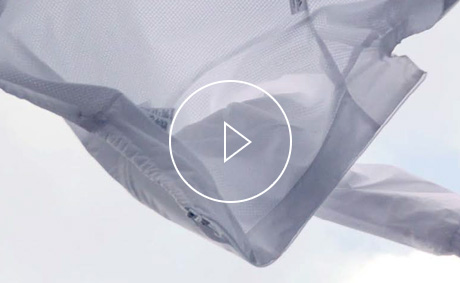
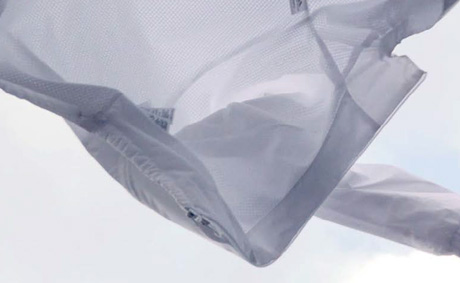
adidas_CP_WND_jacket

diff --git a/mobile/html/adidas/2019/event/athletics/wnd/build/index.html b/mobile/html/adidas/2019/event/athletics/wnd/build/index.html
@@ -438,7 +438,7 @@
        </div>
 
        <div id="container">
-<style type="text/css">@media screen and (max-width: 320px){html{font-size:10px}}@media screen and (min-width: 800px){html{font-size:12px}}.pseudo-element{content:'';display:block}#wnd{position:relative}#wnd .main{position:relative;background:url("/images/adidas/2019/event/athletics/wnd/visual_bg.jpg") 100% 100% no-repeat;background-size:cover;background-position:top;padding:3rem 0 1.5rem 0}#wnd .main .img1 img{width:85%}#wnd .main .wrap{margin:5vh 0}#wnd .main .wrap .txt h1{font:10.5vw/40px 'adinenuPro-bold';text-align:center;color:#fff;letter-spacing:2px}#wnd .main .wrap .txt p{font:500 4vw/15px 'NotoSansKR';text-align:center;color:#fff;letter-spacing:1px;margin:2.5vh 0 3vh 0}#wnd .main .wrap .btns{text-align:center}#wnd .main .wrap .btns .btn1 .button_area_v2,#wnd .main .wrap .btns .btn2 .button_area_v2{display:inline-block;margin-bottom:2vh}#wnd .main .wrap .btns .btn1 .button_area_v2 a,#wnd .main .wrap .btns .btn2 .button_area_v2 a{font:700 .9rem/38px 'NotoSansKR';padding:0 4vw;letter-spacing:1px;height:38px}#wnd .main .wrap .btns .btn1 .button_area_v2 a .arrow,#wnd .main .wrap .btns .btn2 .button_area_v2 a .arrow{width:20px}#wnd .main .wrap .btns .btn1 .button_area_v2 a .arrow::after,#wnd .main .wrap .btns .btn2 .button_area_v2 a .arrow::after{width:8px}#wnd .main .wrap .btns .btn1 .button_area_v2 a .arrow::before,#wnd .main .wrap .btns .btn2 .button_area_v2 a .arrow::before{width:8px}#wnd .main .img2{text-align:right}#wnd .main .img2 img{width:85%}#wnd .midtxt{position:relative;padding:3.5rem 0}#wnd .midtxt p{text-align:center;font:400 4vw/13vw 'NotoSansKR';color:#000;letter-spacing:0.1px}#wnd .midtxt .wrap{text-align:center}#wnd .midtxt .wrap .btn{border:1px solid #000;text-align:center;display:inline-block}#wnd .midtxt .wrap .btn a{font:700 .9rem/38px 'NotoSansKR';color:#000;display:block;padding:0 2vw;height:38px;letter-spacing:.2px}#wnd .midtxt .wrap .btn a img{margin-left:5vw;vertical-align:middle;width:20%}#wnd .vids{position:relative}#wnd .vids .banner_slider_wrap{position:relative;background:#fff}#wnd .vids .banner_slider_wrap.on{background:#000;transition:all 1s}#wnd .vids .banner_slider_wrap .blk_lines{position:absolute;top:-166.5px;left:50%;transform:translateX(-43%);transition:all 1s}#wnd .vids .banner_slider_wrap .blk_lines.on{top:0;z-index:0}#wnd .vids .banner_slider_wrap .blk_lines img{width:115%}#wnd .vids .banner_slider_wrap .wht_lines{position:absolute;bottom:-166.5px;left:50%;transform:translateX(-33%);z-index:0}#wnd .vids .banner_slider_wrap .wht_lines.on{bottom:80px;transition:all 1s}#wnd .vids .banner_slider_wrap .wht_lines img{width:110%}#wnd .vids .banner_slider_wrap #slider_owl li .blk{padding:5.5rem 0 2rem}#wnd .vids .banner_slider_wrap #slider_owl li .blk .top{position:relative}#wnd .vids .banner_slider_wrap #slider_owl li .blk .top img{width:100%}#wnd .vids .banner_slider_wrap #slider_owl li .blk .mid{text-align:center;padding:2rem;padding-left:2.5rem;padding-right:10rem}#wnd .vids .banner_slider_wrap #slider_owl li .blk .mid img{width:100%}#wnd .vids .banner_slider_wrap #slider_owl li .blk .vid{text-align:center;padding-bottom:2rem;padding-right:2.5rem;padding-left:11rem}#wnd .vids .banner_slider_wrap #slider_owl li .blk .vid img{width:100%}#wnd .vids .banner_slider_wrap #slider_owl li .blk .vid .vid_wrap{position:relative}#wnd .vids .banner_slider_wrap #slider_owl li .blk .vid .vid_wrap video{width:100%}#wnd .vids .banner_slider_wrap #slider_owl li .blk .vid .vid_wrap .img{position:absolute;top:50%;left:50%;margin-top:-32.5px;margin-left:-60.5px}#wnd .vids .banner_slider_wrap #slider_owl li .blk .vid .vid_wrap .img img{width:50%}#wnd .vids .banner_slider_wrap #slider_owl li .wht .top{position:relative}#wnd .vids .banner_slider_wrap #slider_owl li .wht .top img{width:100%}#wnd .vids .banner_slider_wrap #slider_owl li .wht .mid{position:relative;text-align:center;padding:2rem;padding-right:2.5rem;padding-left:5rem}#wnd .vids .banner_slider_wrap #slider_owl li .wht .mid img{width:100%}#wnd .vids .banner_slider_wrap #slider_owl li .wht .vid{text-align:center;padding-bottom:2rem;padding-left:2rem;padding-right:11rem}#wnd .vids .banner_slider_wrap #slider_owl li .wht .vid .vid_wrap{position:relative}#wnd .vids .banner_slider_wrap #slider_owl li .wht .vid .vid_wrap video{width:100%}#wnd .vids .banner_slider_wrap #slider_owl li .wht .vid .vid_wrap .img{position:absolute;top:50%;left:50%;margin-top:-32.5px;margin-left:-60.5px}#wnd .vids .banner_slider_wrap #slider_owl li .wht .vid .vid_wrap .img img{width:50%}#wnd .grid{position:relative}#wnd .grid .cut1 img{width:100%}#wnd .grid .cut2{position:relative}#wnd .grid .cut2::after{display:block;content:'';clear:both}#wnd .grid .cut2 .wrap{float:left;width:50%}#wnd .grid .cut2 .wrap img{width:100%}#wnd .grid .cut3{position:relative}#wnd .grid .cut3 img{width:100%}#wnd .grid .cut3 .txt{position:absolute;top:50%;left:50%;transform:translate(-50%, -40%)}#wnd .grid .cut3 .txt h1{font:7.5vw/7.5vw 'adinenuPro-bold';text-align:center;color:#fff}#wnd .grid .cut3 .txt p{font:3.5vw/3.5vw 'adinenuPro-regular';text-align:center;color:#fff;margin:15px 0}#wnd .grid .cut3 .txt .btn{text-align:center}#wnd .grid .cut3 .txt .btn .button_area_v2{display:inline-block}#wnd .grid .cut3 .txt .btn .button_area_v2 a{font:700 .9rem/38px 'NotoSansKR';padding:0 4vw;letter-spacing:.2px;height:38px}#wnd .grid .cut3 .txt .btn .button_area_v2 a .arrow{width:20px}#wnd .grid .cut3 .txt .btn .button_area_v2 a .arrow::after{width:8px}#wnd .grid .cut3 .txt .btn .button_area_v2 a .arrow::before{width:8px}#wnd .btm{position:relative;padding:1.5rem 2.1rem}#wnd .btm .txt{position:absolute;top:50%;left:50%;transform:translate(-50%, -50%)}#wnd .btm .txt h1{font:6vw/7.6vw 'adinenuPro-bold';color:#fff;letter-spacing:3px}#wnd .btm .txt .button_area_v2{display:inline-block}#wnd .btm .txt .button_area_v2 a{font:700 .9rem/38px 'NotoSansKR';padding:0 4vw;letter-spacing:1px;height:38px;width:90px}#wnd .btm .txt .button_area_v2 a .arrow{width:20px}#wnd .btm .txt .button_area_v2 a .arrow::after{width:8px}#wnd .btm .txt .button_area_v2 a .arrow::before{width:8px}#wnd .btm .men{position:relative}#wnd .btm .men::after{display:block;content:'';clear:both}#wnd .btm .men .wrap{float:left;width:50%;text-align:center}#wnd .btm .men .wrap img{width:100%;vertical-align:middle}#wnd .btm .men .color{float:left;width:50%;height:100%;position:relative;background:#c8d0d0}#wnd .btm .men .color img{width:100%}#wnd .btm .women{position:relative;margin:20px 0}#wnd .btm .women::after{display:block;content:'';clear:both}#wnd .btm .women .wrap{float:left;width:50%;text-align:center}#wnd .btm .women .wrap img{width:100%}#wnd .btm .women .color{float:left;width:50%;position:relative}#wnd .btm .women .color img{width:100%}#wnd .btm .kids{position:relative}#wnd .btm .kids::after{display:block;content:'';clear:both}#wnd .btm .kids .wrap{float:left;width:50%;text-align:center}#wnd .btm .kids .wrap img{width:100%}#wnd .btm .kids .color{float:left;width:50%;position:relative}#wnd .btm .kids .color img{width:100%}
+<style type="text/css">@media screen and (max-width: 320px){html{font-size:10px}}@media screen and (min-width: 800px){html{font-size:12px}}.pseudo-element{content:'';display:block}#wnd{position:relative}#wnd .main{position:relative;background:url("/images/adidas/2019/event/athletics/wnd/visual_bg.jpg") 100% 100% no-repeat;background-size:cover;background-position:top;padding:3rem 0 1.5rem 0}#wnd .main .img1 img{width:85%}#wnd .main .wrap{margin:5vh 0}#wnd .main .wrap .txt h1{font:10.5vw/40px 'adinenuPro-bold';text-align:center;color:#fff;letter-spacing:2px}#wnd .main .wrap .txt p{font:500 4vw/15px 'NotoSansKR';text-align:center;color:#fff;letter-spacing:1px;margin:2.5vh 0 3vh 0}#wnd .main .wrap .btns{text-align:center}#wnd .main .wrap .btns .btn1 .button_area_v2,#wnd .main .wrap .btns .btn2 .button_area_v2{display:inline-block;margin-bottom:2vh}#wnd .main .wrap .btns .btn1 .button_area_v2 a,#wnd .main .wrap .btns .btn2 .button_area_v2 a{font:700 .9rem/38px 'NotoSansKR';padding:0 4vw;letter-spacing:1px;height:38px}#wnd .main .wrap .btns .btn1 .button_area_v2 a .arrow,#wnd .main .wrap .btns .btn2 .button_area_v2 a .arrow{width:20px}#wnd .main .wrap .btns .btn1 .button_area_v2 a .arrow::after,#wnd .main .wrap .btns .btn2 .button_area_v2 a .arrow::after{width:8px}#wnd .main .wrap .btns .btn1 .button_area_v2 a .arrow::before,#wnd .main .wrap .btns .btn2 .button_area_v2 a .arrow::before{width:8px}#wnd .main .img2{text-align:right}#wnd .main .img2 img{width:85%}#wnd .midtxt{position:relative;padding:3.5rem 0}#wnd .midtxt p{text-align:center;font:400 4vw/13vw 'NotoSansKR';color:#000;letter-spacing:0.1px}#wnd .midtxt .wrap{text-align:center}#wnd .midtxt .wrap .btn{border:1px solid #000;text-align:center;display:inline-block}#wnd .midtxt .wrap .btn a{font:700 .9rem/38px 'NotoSansKR';color:#000;display:block;padding:0 2vw;height:38px;letter-spacing:.2px}#wnd .midtxt .wrap .btn a img{margin-left:5vw;vertical-align:middle;width:20%}#wnd .vids{position:relative}#wnd .vids .banner_slider_wrap{position:relative;background:#fff}#wnd .vids .banner_slider_wrap.on{background:#000;transition:all 1s}#wnd .vids .banner_slider_wrap .blk_lines{position:absolute;top:-166.5px;left:50%;transform:translateX(-43%);transition:all 1s}#wnd .vids .banner_slider_wrap .blk_lines.on{top:0;z-index:0}#wnd .vids .banner_slider_wrap .blk_lines img{width:115%}#wnd .vids .banner_slider_wrap .wht_lines{position:absolute;bottom:-166.5px;left:50%;transform:translateX(-33%);z-index:0}#wnd .vids .banner_slider_wrap .wht_lines.on{bottom:80px;transition:all 1s}#wnd .vids .banner_slider_wrap .wht_lines img{width:110%}#wnd .vids .banner_slider_wrap #slider_owl li .blk{padding:5.5rem 0 2rem}#wnd .vids .banner_slider_wrap #slider_owl li .blk .top{position:relative}#wnd .vids .banner_slider_wrap #slider_owl li .blk .top img{width:100%}#wnd .vids .banner_slider_wrap #slider_owl li .blk .mid{text-align:center;padding:2rem;padding-left:2.5rem;padding-right:10rem}#wnd .vids .banner_slider_wrap #slider_owl li .blk .mid img{width:100%}#wnd .vids .banner_slider_wrap #slider_owl li .blk .vid{text-align:center;padding-bottom:2rem;padding-right:2.5rem;padding-left:11rem}#wnd .vids .banner_slider_wrap #slider_owl li .blk .vid img{width:100%}#wnd .vids .banner_slider_wrap #slider_owl li .blk .vid .vid_wrap{position:relative}#wnd .vids .banner_slider_wrap #slider_owl li .blk .vid .vid_wrap video{width:100%}#wnd .vids .banner_slider_wrap #slider_owl li .blk .vid .vid_wrap>img{width:100%}#wnd .vids .banner_slider_wrap #slider_owl li .blk .vid .vid_wrap .img{position:absolute;top:50%;left:50%;margin-top:-32.5px;margin-left:-60.5px}#wnd .vids .banner_slider_wrap #slider_owl li .blk .vid .vid_wrap .img img{width:50%}#wnd .vids .banner_slider_wrap #slider_owl li .wht .top{position:relative}#wnd .vids .banner_slider_wrap #slider_owl li .wht .top img{width:100%}#wnd .vids .banner_slider_wrap #slider_owl li .wht .mid{position:relative;text-align:center;padding:2rem;padding-right:2.5rem;padding-left:5rem}#wnd .vids .banner_slider_wrap #slider_owl li .wht .mid img{width:100%}#wnd .vids .banner_slider_wrap #slider_owl li .wht .vid{text-align:center;padding-bottom:2rem;padding-left:2rem;padding-right:11rem}#wnd .vids .banner_slider_wrap #slider_owl li .wht .vid .vid_wrap{position:relative}#wnd .vids .banner_slider_wrap #slider_owl li .wht .vid .vid_wrap video{width:100%}#wnd .vids .banner_slider_wrap #slider_owl li .wht .vid .vid_wrap>img{width:100%}#wnd .vids .banner_slider_wrap #slider_owl li .wht .vid .vid_wrap .img{position:absolute;top:50%;left:50%;margin-top:-32.5px;margin-left:-60.5px}#wnd .vids .banner_slider_wrap #slider_owl li .wht .vid .vid_wrap .img img{width:50%}#wnd .grid{position:relative}#wnd .grid .cut1 img{width:100%}#wnd .grid .cut2{position:relative}#wnd .grid .cut2::after{display:block;content:'';clear:both}#wnd .grid .cut2 .wrap{float:left;width:50%}#wnd .grid .cut2 .wrap img{width:100%}#wnd .grid .cut3{position:relative}#wnd .grid .cut3 img{width:100%}#wnd .grid .cut3 .txt{position:absolute;top:50%;left:50%;transform:translate(-50%, -40%)}#wnd .grid .cut3 .txt h1{font:7.5vw/7.5vw 'adinenuPro-bold';text-align:center;color:#fff}#wnd .grid .cut3 .txt p{font:3.5vw/3.5vw 'adinenuPro-regular';text-align:center;color:#fff;margin:15px 0}#wnd .grid .cut3 .txt .btn{text-align:center}#wnd .grid .cut3 .txt .btn .button_area_v2{display:inline-block}#wnd .grid .cut3 .txt .btn .button_area_v2 a{font:700 .9rem/38px 'NotoSansKR';padding:0 4vw;letter-spacing:.2px;height:38px}#wnd .grid .cut3 .txt .btn .button_area_v2 a .arrow{width:20px}#wnd .grid .cut3 .txt .btn .button_area_v2 a .arrow::after{width:8px}#wnd .grid .cut3 .txt .btn .button_area_v2 a .arrow::before{width:8px}#wnd .btm{position:relative;padding:1.5rem 2.1rem}#wnd .btm .txt{position:absolute;top:50%;left:50%;transform:translate(-50%, -50%)}#wnd .btm .txt h1{font:6vw/7.6vw 'adinenuPro-bold';color:#fff;letter-spacing:3px}#wnd .btm .txt .button_area_v2{display:inline-block}#wnd .btm .txt .button_area_v2 a{font:700 .9rem/38px 'NotoSansKR';padding:0 4vw;letter-spacing:1px;height:38px;width:90px}#wnd .btm .txt .button_area_v2 a .arrow{width:20px}#wnd .btm .txt .button_area_v2 a .arrow::after{width:8px}#wnd .btm .txt .button_area_v2 a .arrow::before{width:8px}#wnd .btm .men{position:relative}#wnd .btm .men::after{display:block;content:'';clear:both}#wnd .btm .men .wrap{float:left;width:50%;text-align:center}#wnd .btm .men .wrap img{width:100%;vertical-align:middle}#wnd .btm .men .color{float:left;width:50%;height:100%;position:relative;background:#c8d0d0}#wnd .btm .men .color img{width:100%}#wnd .btm .women{position:relative;margin:20px 0}#wnd .btm .women::after{display:block;content:'';clear:both}#wnd .btm .women .wrap{float:left;width:50%;text-align:center}#wnd .btm .women .wrap img{width:100%}#wnd .btm .women .color{float:left;width:50%;position:relative}#wnd .btm .women .color img{width:100%}#wnd .btm .kids{position:relative}#wnd .btm .kids::after{display:block;content:'';clear:both}#wnd .btm .kids .wrap{float:left;width:50%;text-align:center}#wnd .btm .kids .wrap img{width:100%}#wnd .btm .kids .color{float:left;width:50%;position:relative}#wnd .btm .kids .color img{width:100%}
 </style>
 
            <div id="wnd">
@@ -510,14 +510,14 @@
                                    <div class="vid">
                                        <a href="javascript:void(0)"  onclick="openModalVideoViewer('HT3ZIbwNMwk')">
                                         <div class="vid_wrap">
-                                            <video src="/images/adidas/2019/event/athletics/wnd/video_kang.mp4" autoplay loop muted></video>
+                                            <img src="/images/adidas/2019/event/athletics/wnd/video_kang.jpg" alt="">
+                                            <!-- <video src="/images/adidas/2019/event/athletics/wnd/video_kang.mp4" autoplay loop muted></video> -->
                                             <div class="img">
                                                 <img src="/images/adidas/2019/event/athletics/wnd/1901_a_WND_MO_play.png" alt="">
                                             </div>
                                         </div>
-                                           <!-- <img src="/images/adidas/2019/event/athletics/wnd/vid_cut4.jpg" alt=""> -->
+                                           
                                        </a>
-                                       <!-- <video src="/images/adidas/2019/event/athletics/wnd/test.mp4" autoplay loop width="230" height="141" onclick="openModalVideoViewer('EspMCuyslXY')"></video> -->
                                    </div>
                                </div>
                            </li>
@@ -534,12 +534,12 @@
                                    <div class="vid">
                                        <a href="javascript:void(0)" onclick="openModalVideoViewer('s_Rsm_C5cS0')">
                                             <div class="vid_wrap">
-                                                <video src="/images/adidas/2019/event/athletics/wnd/video_rose.mp4" autoplay loop muted></video>
+                                                <img src="/images/adidas/2019/event/athletics/wnd/video_rose.jpg" alt="">
+                                                <!-- <video src="/images/adidas/2019/event/athletics/wnd/video_rose.mp4" autoplay loop muted></video> -->
                                                     <div class="img">
                                                         <img src="/images/adidas/2019/event/athletics/wnd/1901_a_WND_MO_play.png" alt="">
                                                     </div>
                                             </div>
-                                           <!-- <img src="/images/adidas/2019/event/athletics/wnd/vid_cut4.jpg" alt=""> -->
                                        </a>
                                    </div>
                                </div>
@@ -708,7 +708,7 @@
                        merge: true,
                        loop : true,
                        navigation: true,
-                    //    autoplay:true,
+                       autoplay:true,
                        autoplayTimeout:6000,
                        autoplaySpeed:800,
                        // nav: true

diff --git a/mobile/html/adidas/2019/event/athletics/wnd/index.html b/mobile/html/adidas/2019/event/athletics/wnd/index.html
@@ -508,14 +508,14 @@
                                    <div class="vid">
                                        <a href="javascript:void(0)"  onclick="openModalVideoViewer('HT3ZIbwNMwk')">
                                         <div class="vid_wrap">
-                                            <video src="/images/adidas/2019/event/athletics/wnd/video_kang.mp4" autoplay loop muted></video>
+                                            <img src="/images/adidas/2019/event/athletics/wnd/video_kang.jpg" alt="">
+                                            <!-- <video src="/images/adidas/2019/event/athletics/wnd/video_kang.mp4" autoplay loop muted></video> -->
                                             <div class="img">
                                                 <img src="/images/adidas/2019/event/athletics/wnd/1901_a_WND_MO_play.png" alt="">
                                             </div>
                                         </div>
-                                           <!-- <img src="/images/adidas/2019/event/athletics/wnd/vid_cut4.jpg" alt=""> -->
+                                           
                                        </a>
-                                       <!-- <video src="/images/adidas/2019/event/athletics/wnd/test.mp4" autoplay loop width="230" height="141" onclick="openModalVideoViewer('EspMCuyslXY')"></video> -->
                                    </div>
                                </div>
                            </li>
@@ -532,12 +532,12 @@
                                    <div class="vid">
                                        <a href="javascript:void(0)" onclick="openModalVideoViewer('s_Rsm_C5cS0')">
                                             <div class="vid_wrap">
-                                                <video src="/images/adidas/2019/event/athletics/wnd/video_rose.mp4" autoplay loop muted></video>
+                                                <img src="/images/adidas/2019/event/athletics/wnd/video_rose.jpg" alt="">
+                                                <!-- <video src="/images/adidas/2019/event/athletics/wnd/video_rose.mp4" autoplay loop muted></video> -->
                                                     <div class="img">
                                                         <img src="/images/adidas/2019/event/athletics/wnd/1901_a_WND_MO_play.png" alt="">
                                                     </div>
                                             </div>
-                                           <!-- <img src="/images/adidas/2019/event/athletics/wnd/vid_cut4.jpg" alt=""> -->
                                        </a>
                                    </div>
                                </div>
@@ -706,7 +706,7 @@
                        merge: true,
                        loop : true,
                        navigation: true,
-                    //    autoplay:true,
+                       autoplay:true,
                        autoplayTimeout:6000,
                        autoplaySpeed:800,
                        // nav: true

diff --git a/mobile/html/adidas/2019/event/athletics/wnd/index.scss b/mobile/html/adidas/2019/event/athletics/wnd/index.scss
@@ -135,26 +135,7 @@
 			#slider_owl{
 				li{
 					.blk{
-						// &.on{
-						// 	.lines{
-						// 		top:0;
-						// 		z-index: 1;
-						// 	}
-						// }
-						// .lines{
-						// 	position: absolute;
-						// 	top:-166.5px;
-						// 	left:50%;
-						// 	transform: translateX(-57%);
-						// 	transition: all 1s;
-						// 	z-index: -1;
-						// 	img{
-						// 		width:45%;
-						// 	}
-						// }
-						// background: url("/images/adidas/2019/event/athletics/wnd/bg_blk.jpg") 100% 100% no-repeat;
-						// background-position: center;
-						// background-size: cover;
+
 						padding: 5.5rem 0 2rem;
 						.top{
 							position: relative;
@@ -184,13 +165,15 @@
 								video{
 									width:100%;
 								}
+								>img{
+									width:100%;
+								}
 								.img{
 									position: absolute;
 									top:50%;
 									left:50%;
 									margin-top:-32.5px;
 									margin-left:-60.5px;
-									// transform:translate(-50%,-50%)
 									img{
 										width:50%;
 									}
@@ -199,30 +182,6 @@
 						}
 					}
 					.wht{
-						// &.on{
-						// 	.lines{
-						// 		bottom:80px;
-						// 		transition: all 1s;
-						// 	}
-						// }
-						// .lines{
-						// 	position: absolute;
-						// 	bottom:-166.5px;
-						// 	left:50%;
-						// 	transform: translateX(26%);
-						// 	z-index: -1;
-						// 	img{
-						// 		width:45%;
-						// 	}
-						// }
-						// background: url("/images/adidas/2019/event/athletics/wnd/bg_wht.jpg") 0 0 no-repeat;
-						// background-position: center;
-						// background-size: cover;
-						// .bg{
-						// 	img{
-						// 		width:100%;
-						// 	}
-						// }
 						.top{
 							position: relative;
 							img{
@@ -249,13 +208,15 @@
 								video{
 									width:100%;
 								}
+								>img{
+									width:100%;
+								}
 								.img{
 									position: absolute;
 									top:50%;
 									left:50%;
 									margin-top:-32.5px;
 									margin-left:-60.5px;
-									// transform:translate(-50%,-50%)
 									img{
 										width:50%;
 									}
